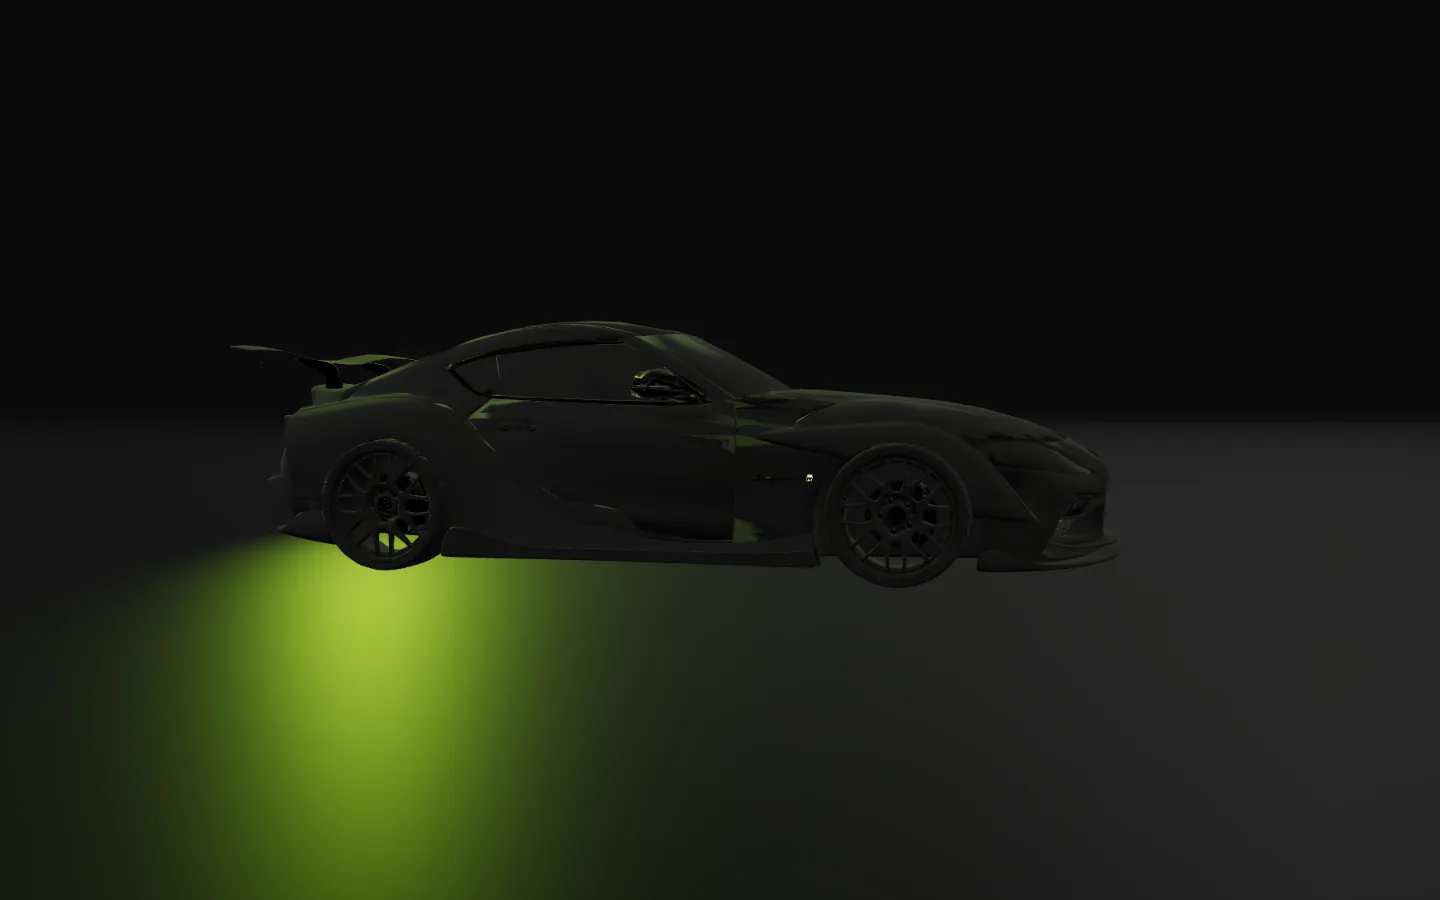
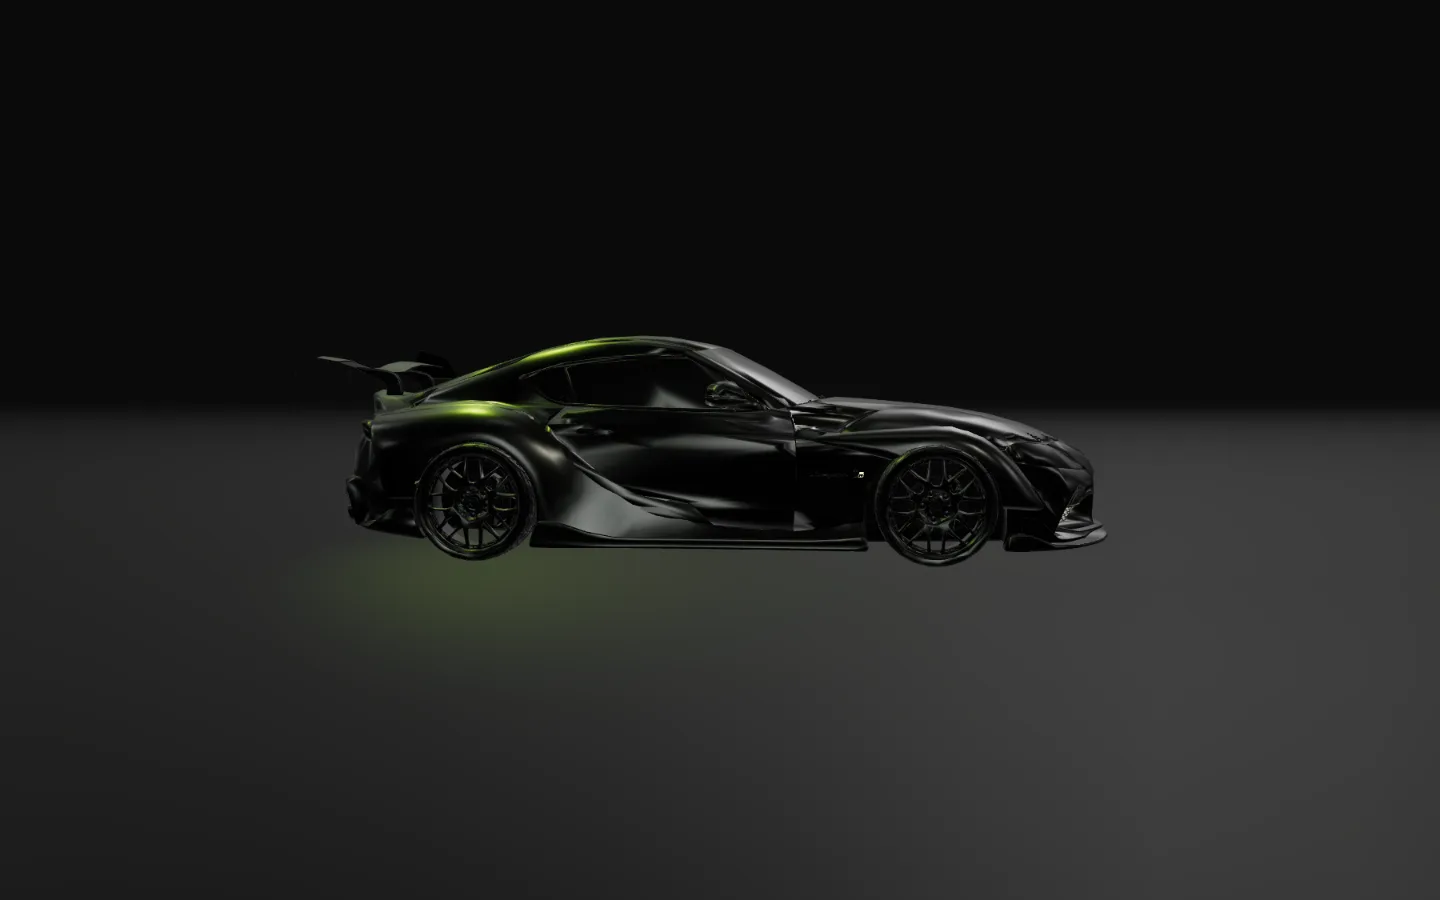
feat: recaptura as imagens do lite com o Supra

Changed region(s): [[0.0938, 0.3422, 0.875, 1.0], [0.875, 0.84, 0.9062, 0.8711], [0.4688, 0.8089, 0.5, 0.84]]

diff --git a/docs/plan.md b/docs/plan.md
@@ -15,8 +15,7 @@
 ### Próximos passos, em ordem
 
 1. ~~**Luz e enquadramentos**~~ — feito em 2026-09-17 (ver passo 5 do Bloco 4).
-2. **Recapturar as imagens do lite** — `http://localhost:<porta>/tools/capture.html` regrava
-   `public/shots/{aero,chassis,v12}.webp` a partir da cena.
+2. ~~**Recapturar as imagens do lite**~~ — feito em 2026-09-17.
 3. **Reescrever o conteúdo para o Supra** — a página ainda diz "VULCAN / Seven litres. Twelve
    cylinders." com um Supra na tela. Trocar título, kicker (`// TRACK ONLY · V12 7.0 · 24 UNITS`), os
    três capítulos e a SPECS, com números conferidos em fontes públicas e a tabela do design.md
@@ -213,7 +212,8 @@ A marcação já existe no `index.html`: `.stage` fixo com canvas, `.preloader` 
        FPS rolando a zona 3D: média 137, p95 12,2 ms, pior quadro 18,3 ms.
      - Prévias feitas com um helper temporário que renderizava folhas de contato pelo `/__shot/`
        (gravar em `public/` recarrega a página do dev server: renderizar tudo antes de postar).
-   - [ ] Recapturar as imagens do modo lite
+   - [x] Recapturar as imagens do modo lite (2026-09-17): 22 / 24 / 16 KB, carro centralizado
+     (`offset: 0`); conferidas em 375 px, carregadas, sem overflow, console limpo
 6. **Modo lite** — feito com o proxy em 2026-09-17; as imagens são recapturadas no passo 5
    - [x] Ferramenta de captura: `tools/capture.html` + `tools/capture.js` montam o palco num canvas de
      1440×900 e postam cada shot; o plugin de dev `tools/shotServer.js` grava em `public/shots/`.
